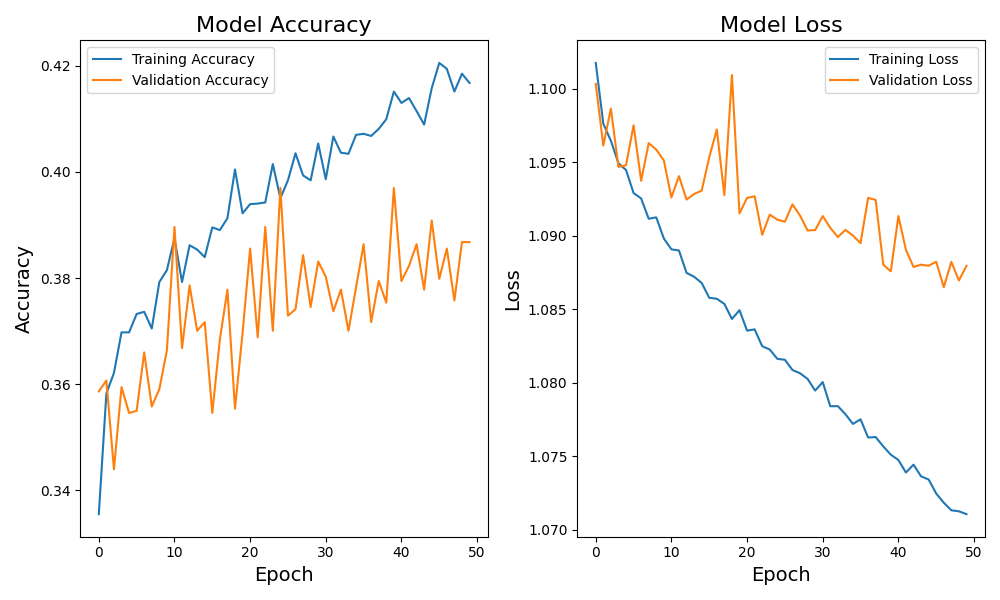
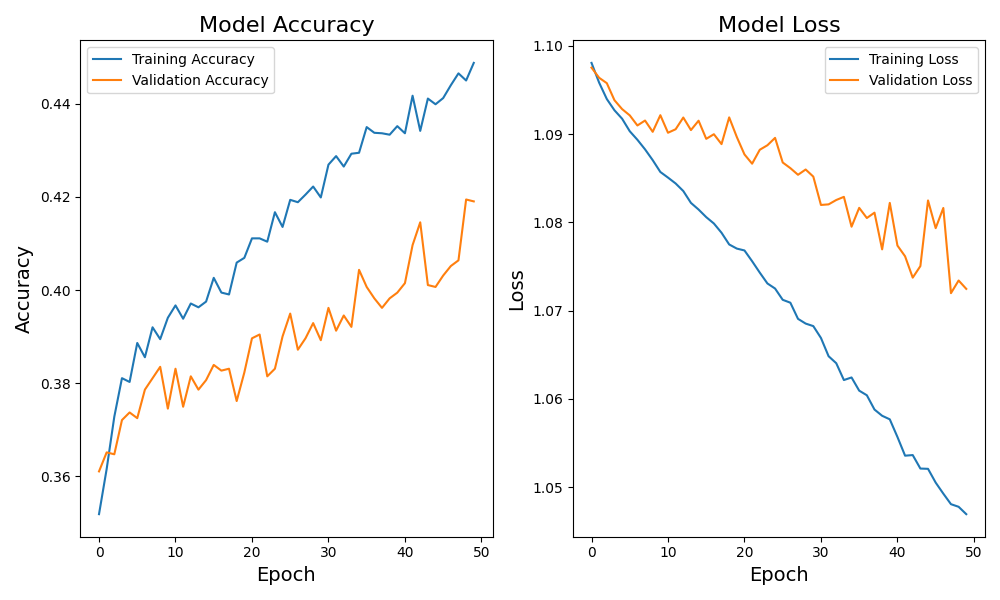
Fixed MLP and Classification reports

diff --git a/assignment02/olympic_medal_predictor.py b/assignment02/olympic_medal_predictor.py
@@ -2,6 +2,7 @@
 
 # Import necessary libraries
 import os
+import time
 import pandas as pd
 import numpy as np
 import seaborn as sns
@@ -155,9 +156,8 @@ print("\nLogistic Regression Model Evaluation:")
 log_accuracy = accuracy_score(y_test, y_pred_log)
 print(f"Accuracy: {log_accuracy:.4f}")
 
-# Display classification report
-print("\nClassification Report:")
-print(classification_report(y_test, y_pred_log, target_names=medal_encoder.classes_))
+# Generate Logistic Regression classification report
+log_report = classification_report(y_test, y_pred_log, target_names=medal_encoder.classes_)
 
 # EDA Visualization 06 - Logistic Regression Confusion Matrix
 plt.figure(figsize=(10, 6))
@@ -185,9 +185,8 @@ print("\nDecision Tree Model Evaluation:")
 dec_accuracy = accuracy_score(y_test, y_pred_dectree)
 print(f"Accuracy: {dec_accuracy:.4f}")
 
-# Display classification report
-print("\nClassification Report:")
-print(classification_report(y_test, y_pred_dectree, target_names=medal_encoder.classes_))
+# Generate Decision Tree classification report
+dec_report = classification_report(y_test, y_pred_dectree, target_names=medal_encoder.classes_)  
 
 # EDA Visualization 07 - Logistic Regression Confusion Matrix
 plt.figure(figsize=(10, 6))
@@ -216,7 +215,9 @@ X_train, X_test, y_train_cat, y_test_cat = train_test_split(X_normalized, y_cate
 # Build the neural network model
 print("\nBuilding neural network model...")
 model = Sequential([
-    Dense(64, activation='relu', input_shape=(X_train.shape[1],)),
+    Dense(16, activation='relu', input_shape=(X_train.shape[1],)),
+    Dense(32, activation='relu'),
+    Dense(16, activation='relu'),
     Dense(y_categorical.shape[1], activation='softmax')
 ])
 
@@ -227,15 +228,18 @@ model.compile(optimizer='adam',
 
 # Train the model with validation split
 print("\nTraining the neural network...")
+start_time = time.time()
 history = model.fit(
     X_train, y_train_cat,
     epochs=50,
     batch_size=32,
-    validation_split=0.2
+    validation_split=0.2,
+    verbose=0
 )
+training_time = time.time() - start_time
 
 # EDA Visualization 08 - Neural Network Training - Validation Accuracy & Loss
-plt.figure(figsize=(10, 6))
+""" plt.figure(figsize=(10, 6))
 # Plot accuracy
 plt.subplot(1, 2, 1)
 plt.plot(history.history['accuracy'], label='Training Accuracy')
@@ -254,29 +258,18 @@ plt.xlabel('Epoch', fontsize=14)
 plt.legend()
 plt.tight_layout()
 plt.savefig('visualizations/08-neural_network_training_history.png')
-plt.close()
+plt.close() """
 
 # Evaluate the model on the test set
 print("\nEvaluating neural network on test set...")
-nnt_loss, nnt_accuracy = model.evaluate(X_test, y_test_cat)
+nnt_loss, nnt_accuracy = model.evaluate(X_test, y_test_cat, verbose=0)
 print(f"Test accuracy: {nnt_accuracy:.4f}")
 
-# ----------------------------------------------------- #
-
-# Compare with previous models
-print("\n--- Model Comparison (All Models) ---")
-print(f"Logistic Regression Accuracy: {log_accuracy:.4f}")
-print(f"Decision Tree Accuracy: {dec_accuracy:.4f}")
-print(f"Neural Network Accuracy: {nnt_accuracy:.4f}")
-
-# Determine the best model among all three
-accuracies = {
-    "Logistic Regression": log_accuracy,
-    "Decision Tree": dec_accuracy,
-    "Neural Network": nnt_accuracy
-}
-best_model = max(accuracies, key=accuracies.get)
-print(f"\nThe best performing model is: {best_model} with accuracy {accuracies[best_model]:.4f}")
+# Generate Neural Network classification report
+y_pred_probs = model.predict(X_test, verbose=0)
+y_pred = np.argmax(y_pred_probs, axis=1)
+y_true = np.argmax(y_test_cat, axis=1)
+nn_report = classification_report(y_true, y_pred, target_names=medal_encoder.classes_)
 
 # ----------------------------------------------------- #
 
@@ -304,7 +297,9 @@ enhanced_X_train, enhanced_X_test, enhanced_y_train_cat, enhanced_y_test_cat = t
 # Build the neural network model
 print("\nBuilding neural network model...")
 enhanced_model = Sequential([
-    Dense(64, activation='relu', input_shape=(enhanced_X_train.shape[1],)),
+    Dense(16, activation='relu', input_shape=(enhanced_X_train.shape[1],)),
+    Dense(32, activation='relu'),
+    Dense(16, activation='relu'),
     Dense(y_categorical.shape[1], activation='softmax')
 ])
 
@@ -315,15 +310,18 @@ enhanced_model.compile(optimizer='adam',
 
 # Train the model with validation split
 print("\nTraining the neural network...")
+start_time_enhanced = time.time()
 enhanced_history = enhanced_model.fit(
     enhanced_X_train, enhanced_y_train_cat,
     epochs=50,
     batch_size=32,
-    validation_split=0.2
+    validation_split=0.2,
+    verbose=0
 )
+training_time_enhanced = time.time() - start_time_enhanced
 
 # EDA Visualization 09 - Neural Network Training - Validation Accuracy & Loss Enhanced Set
-plt.figure(figsize=(10, 6))
+""" plt.figure(figsize=(10, 6))
 # Plot accuracy
 plt.subplot(1, 2, 1)
 plt.plot(enhanced_history.history['accuracy'], label='Training Accuracy')
@@ -342,11 +340,65 @@ plt.xlabel('Epoch', fontsize=14)
 plt.legend()
 plt.tight_layout()
 plt.savefig('visualizations/09-neural_network_enhanced_set_training_history.png')
-plt.close()
+plt.close() """
 
 # Evaluate the model on the test set
 print("\nEvaluating neural network on enhanced test set...")
-enhanced_nnt_loss, enhanced_nnt_accuracy = enhanced_model.evaluate(enhanced_X_test, enhanced_y_test_cat)
+enhanced_nnt_loss, enhanced_nnt_accuracy = enhanced_model.evaluate(enhanced_X_test, enhanced_y_test_cat, verbose=0)
 print(f"Test accuracy (enhanced set): {enhanced_nnt_accuracy:.4f}")
 
+# Generate classification report
+enhanced_y_pred_probs = enhanced_model.predict(enhanced_X_test, verbose=0)
+enhanced_y_pred = np.argmax(enhanced_y_pred_probs, axis=1)
+enhanced_y_true = np.argmax(enhanced_y_test_cat, axis=1)
+#print(classification_report(enhanced_y_test_cat, enhanced_y_pred, target_names=['Bronze', 'Silver', 'Gold']))
+enhanced_nn_report = classification_report(enhanced_y_true, enhanced_y_pred, target_names=medal_encoder.classes_)
+
 # ----------------------------------------------------- #
+
+# Compare with previous models
+print("\n--- Model Comparison (All Models) ---")
+print(f"Logistic Regression Accuracy: {log_accuracy:.4f}")
+print(f"Decision Tree Accuracy: {dec_accuracy:.4f}")
+print(f"Neural Network Accuracy: {nnt_accuracy:.4f}")
+print(f"Enhanced Neural Network Accuracy: {enhanced_nnt_accuracy:.4f}")
+
+# Determine the best model among all three
+accuracies = {
+    "Logistic Regression": log_accuracy,
+    "Decision Tree": dec_accuracy,
+    "Neural Network": nnt_accuracy,
+    "Enhanced Neural Network": enhanced_nnt_accuracy
+}
+best_model = max(accuracies, key=accuracies.get)
+print(f"\nThe best performing model is: {best_model} with accuracy {accuracies[best_model]:.4f}")
+
+# Print classification reports for all models
+print("\n--- Classification Reports ---")
+print("\nLogistic Regression Classification Report:")
+print(log_report)
+print("\nDecision Tree Classification Report:")
+print(dec_report)
+print("\nNeural Network Classification Report:")
+print(nn_report)
+print("\nEnhanced Neural Network Classification Report:")
+print(enhanced_nn_report)   
+
+# ----------------------------------------------------- #
+
+# Reflection on domain-driven features
+print("\n--- Summary Reflection ---")
+print("\n1. Did accuracy improve?")
+if enhanced_nnt_accuracy > nnt_accuracy:
+    print(f"   Yes, accuracy improved by {enhanced_nnt_accuracy - nnt_accuracy:.4f} ({(enhanced_nnt_accuracy - nnt_accuracy) / nnt_accuracy * 100:.2f}%)")
+else:
+    print(f"   No, accuracy decreased by {nnt_accuracy - enhanced_nnt_accuracy:.4f} ({(nnt_accuracy - enhanced_nnt_accuracy) / nnt_accuracy * 100:.2f}%)")
+
+print("\n2. Did the model train faster/slower?")
+if training_time_enhanced < training_time:
+    print(f"   The new model was faster by {training_time - training_time_enhanced:.2f} seconds ({(training_time - training_time_enhanced) / training_time * 100:.2f}%)")
+else:
+    print(f"   The new model was slower by {training_time_enhanced - training_time:.2f} seconds ({(training_time_enhanced - training_time) / training_time * 100:.2f}%)")
+
+print("\n3. Which feature seemed more predictive?")
+
